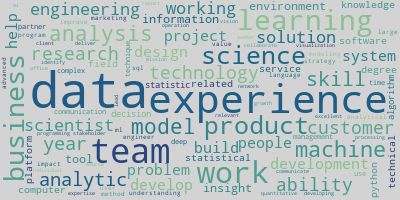
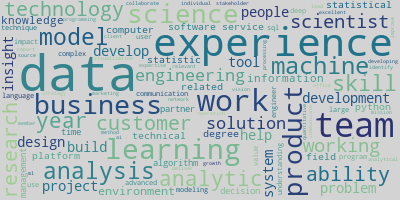
created code to replace erroneous terms in terms_for_nlp list

diff --git a/nlp_main.py b/nlp_main.py
@@ -133,8 +133,6 @@ def clean_terms_for_nlp(series_of_interest):
     text = (unicodedata.normalize('NFKD', text).encode('ascii', 'ignore').decode('utf-8', 'ignore').lower())
     words = re.sub(r'[^\w\s]', '', text).split()
     
-    ####!!!! START HERE AND CREATE THE FIND AND REPLACE DICTIONARY FOR THE KEY SKILLS LISTS
-    
     # add additional stopwords to nltk default stopword list; counts between 20 and 50 are evaluated but not included in the lists
     # counts of 19 and below are neither evaluated nor included in the stopword list or skill lists
     additional_stopwords = sorted(list(set(['14042', '3rd', '401k', '50', '500', 'a16z', 'able', 'accepted',
@@ -1267,6 +1265,17 @@ def clean_terms_for_nlp(series_of_interest):
     print('Post-lemmatization stopword removal...')
     terms_for_nlp = [x for x in terms_for_nlp if x not in additional_stopwords]
 
+    ####!!!! START HERE AND CREATE THE FIND AND REPLACE DICTIONARY FOR THE KEY SKILLS LISTS
+    # create a dictionary for term corrections (e.g., misspellings, etc.)
+    term_fixes = {'working_fixed': 'working',
+                  'advanced': 'advance',
+                  'zuckerberg_fixed': 'zuckerberg'}
+    
+    # correct misspellings, erroneous concatenations, term ambiguities, etc.; collapse synonyms into single terms
+    df_term_fixes = pd.DataFrame(terms_for_nlp, columns=['terms'])
+    df_term_fixes['terms'].replace(dict(zip(list(term_fixes.values()), list(term_fixes.keys()))), regex=False, inplace=True)
+    terms_for_nlp = list(df_term_fixes['terms'])
+    
     return terms_for_nlp
 
 
@@ -3018,7 +3027,7 @@ def visualize_n_grams(n_grams):
     n_grams_df_sns = n_grams_df.iloc[:20]
     
     # create a horizontal barplot visualizing n_gram counts from greatest to least
-    ax = sns.barplot(x='count', y='grams', data=n_grams_df_sns, orient='h', palette='crest_d') # crest, mako, 'mako_d, Blues_d, mako_r, ocean, gist_gray, gist_gray_r, icefire
+    ax = sns.barplot(x='count', y='grams', data=n_grams_df_sns, orient='h', palette='mako_r') # crest, mako, 'mako_d, Blues_d, mako_r, ocean, gist_gray, gist_gray_r, icefire
     ax.set_title('n grams')
 
 
@@ -3147,7 +3156,7 @@ def nlp_count_n_grams(terms_for_nlp, n_gram_count, n_gram_range_start, n_gram_ra
 
 
 def nlp_filter_terms():
-    value_list = ['data', 'science', 'python']
+    value_list = ['advance']#['data', 'science', 'python']
     boolean_series = pd.Series(terms_for_nlp).isin(value_list)
     filtered_series = pd.Series(terms_for_nlp)[boolean_series]
     print(len(filtered_series))
